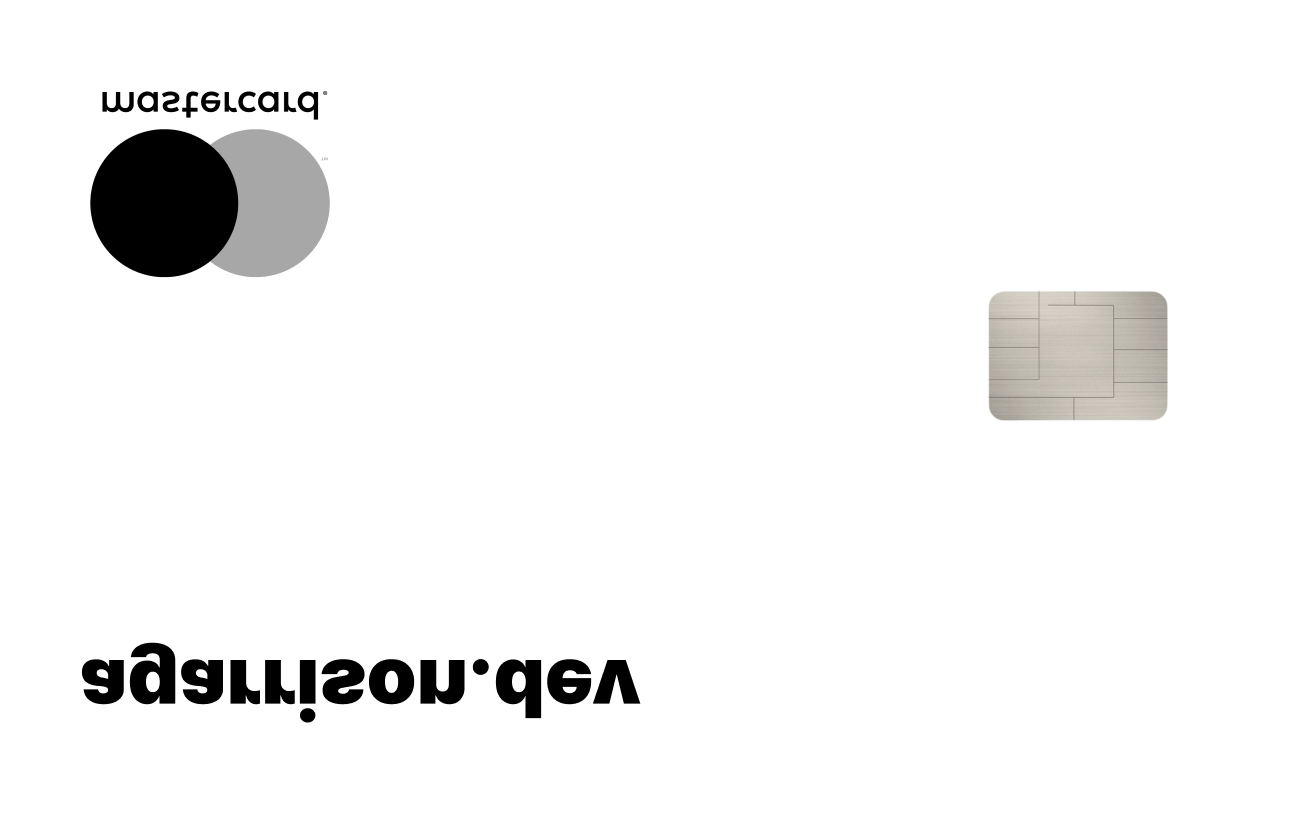
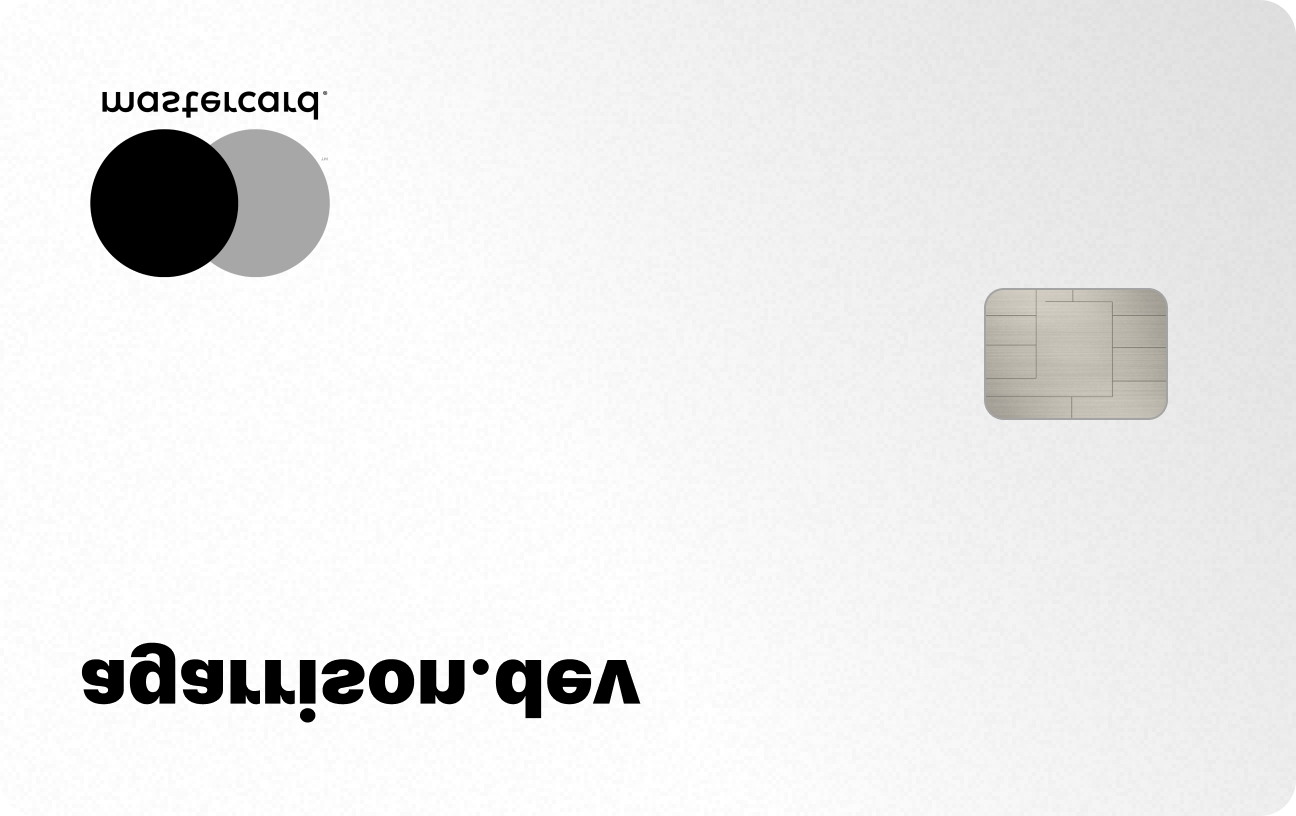
better card faces

Changed region(s): [[0.7099, 0.0, 1.0, 0.674], [0.9877, 0.7047, 1.0, 0.7353]]

diff --git a/src/styles.tsx b/src/styles.tsx
@@ -2,14 +2,14 @@ import styled from "@emotion/styled";
 import { CardColor } from "./types";
 
 const cardNameColorMap: Record<CardColor, string> = {
-  black: "white",
-  white: "black",
-  gray: "black",
+  black: "silver",
+  white: "gray",
+  gray: "silver",
 };
 
 const cardColorBgMap: Record<CardColor, string> = {
   black: "#505050",
-  white: "#ABABAB",
+  white: "#FBFBFB",
   gray: "#F4F4F4",
 };
 
